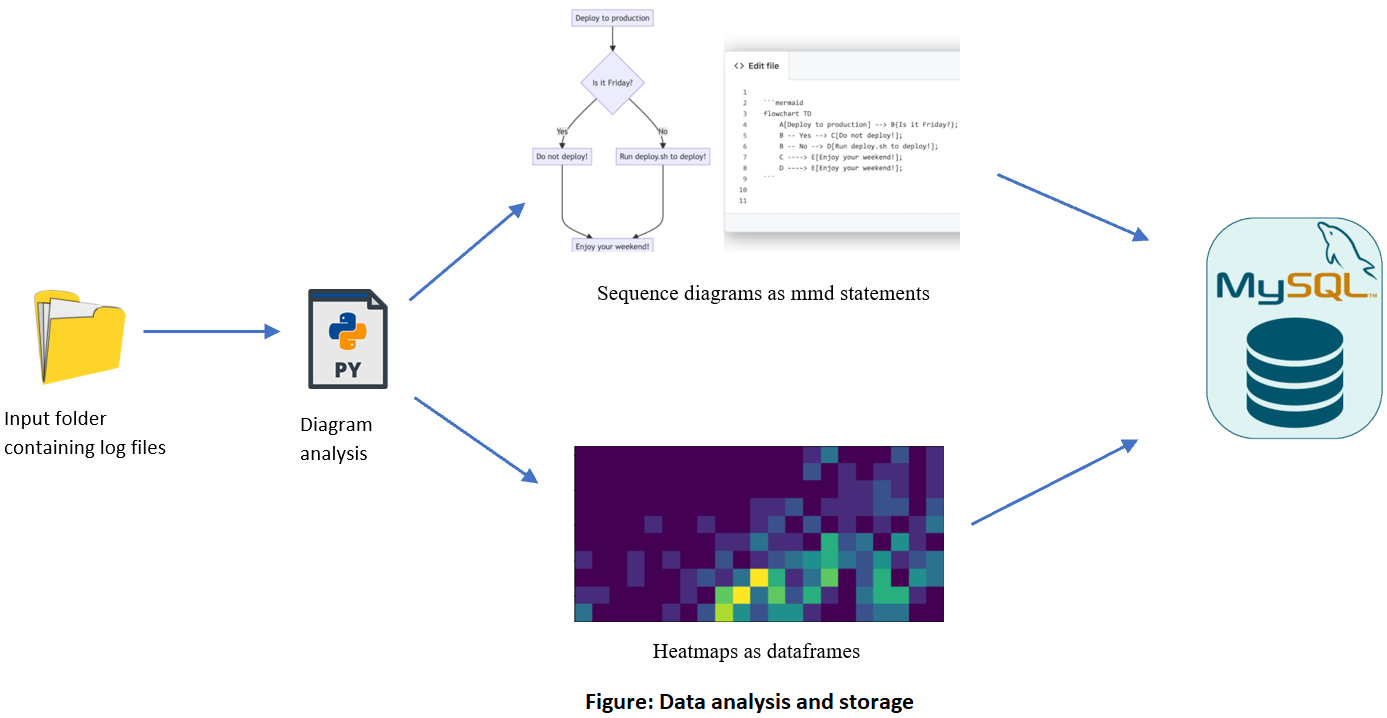
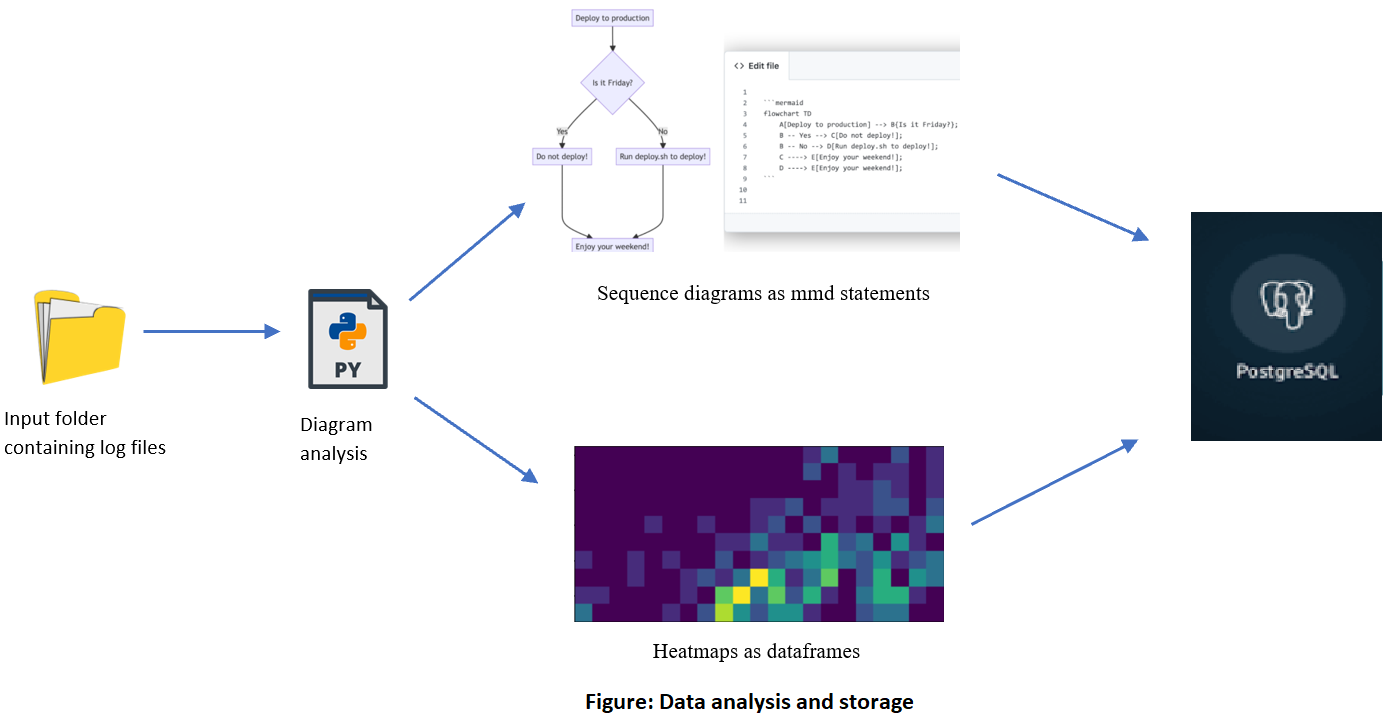
changed readmes and replaced mysql with postgres in the workflow

Changed region(s): [[0.8371, 0.2758, 1.0, 0.6128]]

diff --git a/Visualization_dashboard/README.md b/Visualization_dashboard/README.md
@@ -4,12 +4,12 @@ The Dashboard uses the data populated by the [Data analysis tool](https://github
 
 The workflow is as below:
 
-<img src= "https://github.com/SmartDeltaFraunhoferFOKUS/Architecture_Visualization_Tool/blob/master/_img/visualization_dashboard.png" width="550" height="200">
+<img src= "https://github.com/SmartDeltaFraunhoferFOKUS/Architecture_Visualization_Tool/blob/Version_latest/_img/visualization_dashboard.png" width="550" height="200">
 
 ### Pre-requisites before running the app:
 1. Populate necessary data using the [Data analysis tool](https://github.com/SmartDeltaFraunhoferFOKUS/Architecture_Visualization_Tool/tree/master/Data_analysis_tool). The relevant information can be found in the corresponding [readme](https://github.com/SmartDeltaFraunhoferFOKUS/Architecture_Visualization_Tool/blob/master/Data_analysis_tool/README.md)
 
-    However, if you want to run the Visualization with pre-populated data and without having to run the Data population tool, please run the [smartdelta__pcd_restore_all.sql](https://github.com/SmartDeltaFraunhoferFOKUS/Architecture_Visualization_Tool/blob/master/Data_analysis_tool/db_scripts/complete_data_backup/smartdelta__pcd_restore_all.sql) script. This will completely create a pre-populated database called **SmartDelta__PCD** in the mysql db.
+    However, if you want to run the Visualization with pre-populated data and without having to run the Data population tool, please run the [smartdelta__pcd_restore_all.sql](https://github.com/SmartDeltaFraunhoferFOKUS/Architecture_Visualization_Tool/blob/master/Data_analysis_tool/db_scripts/complete_data_backup/smartdelta__pcd_restore_all.sql) script. This will completely create a pre-populated database called **SmartDelta_PCD** in the POSTGRES db.
 
 2. Configure database settings in the [config.yaml](https://github.com/SmartDeltaFraunhoferFOKUS/Architecture_Visualization_Tool/blob/master/Visualization_dashboard/config.yaml) file.
 
@@ -44,8 +44,3 @@ The workflow is as below:
        http://localhost:8501/
     ```
 
-### To deploy in a container using pre-populated data:
-
-There is also a docker-compose that already deploys the visualization dashboard container along with a mysql db container with per-populated data. Please follow the [readme](https://github.com/SmartDeltaFraunhoferFOKUS/Architecture_Visualization_Tool#running-the-dashboard-with-pre-computed-data) to initiate this setup.
-
-**In this case, the pre-requisites are not necessary**

diff --git a/Data_analysis_tool/README.md b/Data_analysis_tool/README.md
@@ -2,11 +2,11 @@
 
 *The repo contains the initial version of the Architectural data analysis tool.*
 
-The application takes a folder consisting of log files as input and for each file, computes necessary visualization data and populates it in a mysql backend. 
+The application takes a folder consisting of log files as input and for each file, computes necessary visualization data and populates it in a POSTGRES backend. 
 
 The workflow is as shown in the figure below:
 
-<img src= "https://github.com/SmartDeltaFraunhoferFOKUS/Architecture_Visualization_Tool/blob/master/_img/diagram_analysis.png" width="750" height="400">
+<img src= "https://github.com/SmartDeltaFraunhoferFOKUS/Architecture_Visualization_Tool/blob/Version_latest/_img/diagram_analysis.png" width="750" height="400">
 
 Please follow the following steps to setup and get the app running:
 

diff --git a/README.md b/README.md
@@ -14,3 +14,4 @@ The general workflow is depicted below:
 <img src= "_img/workflow.png" width="900" height="350">
 
 Please follow the [wiki](https://github.com/SmartDeltaFraunhoferFOKUS/Architecture_Visualization_Tool/wiki) for more details.
+
